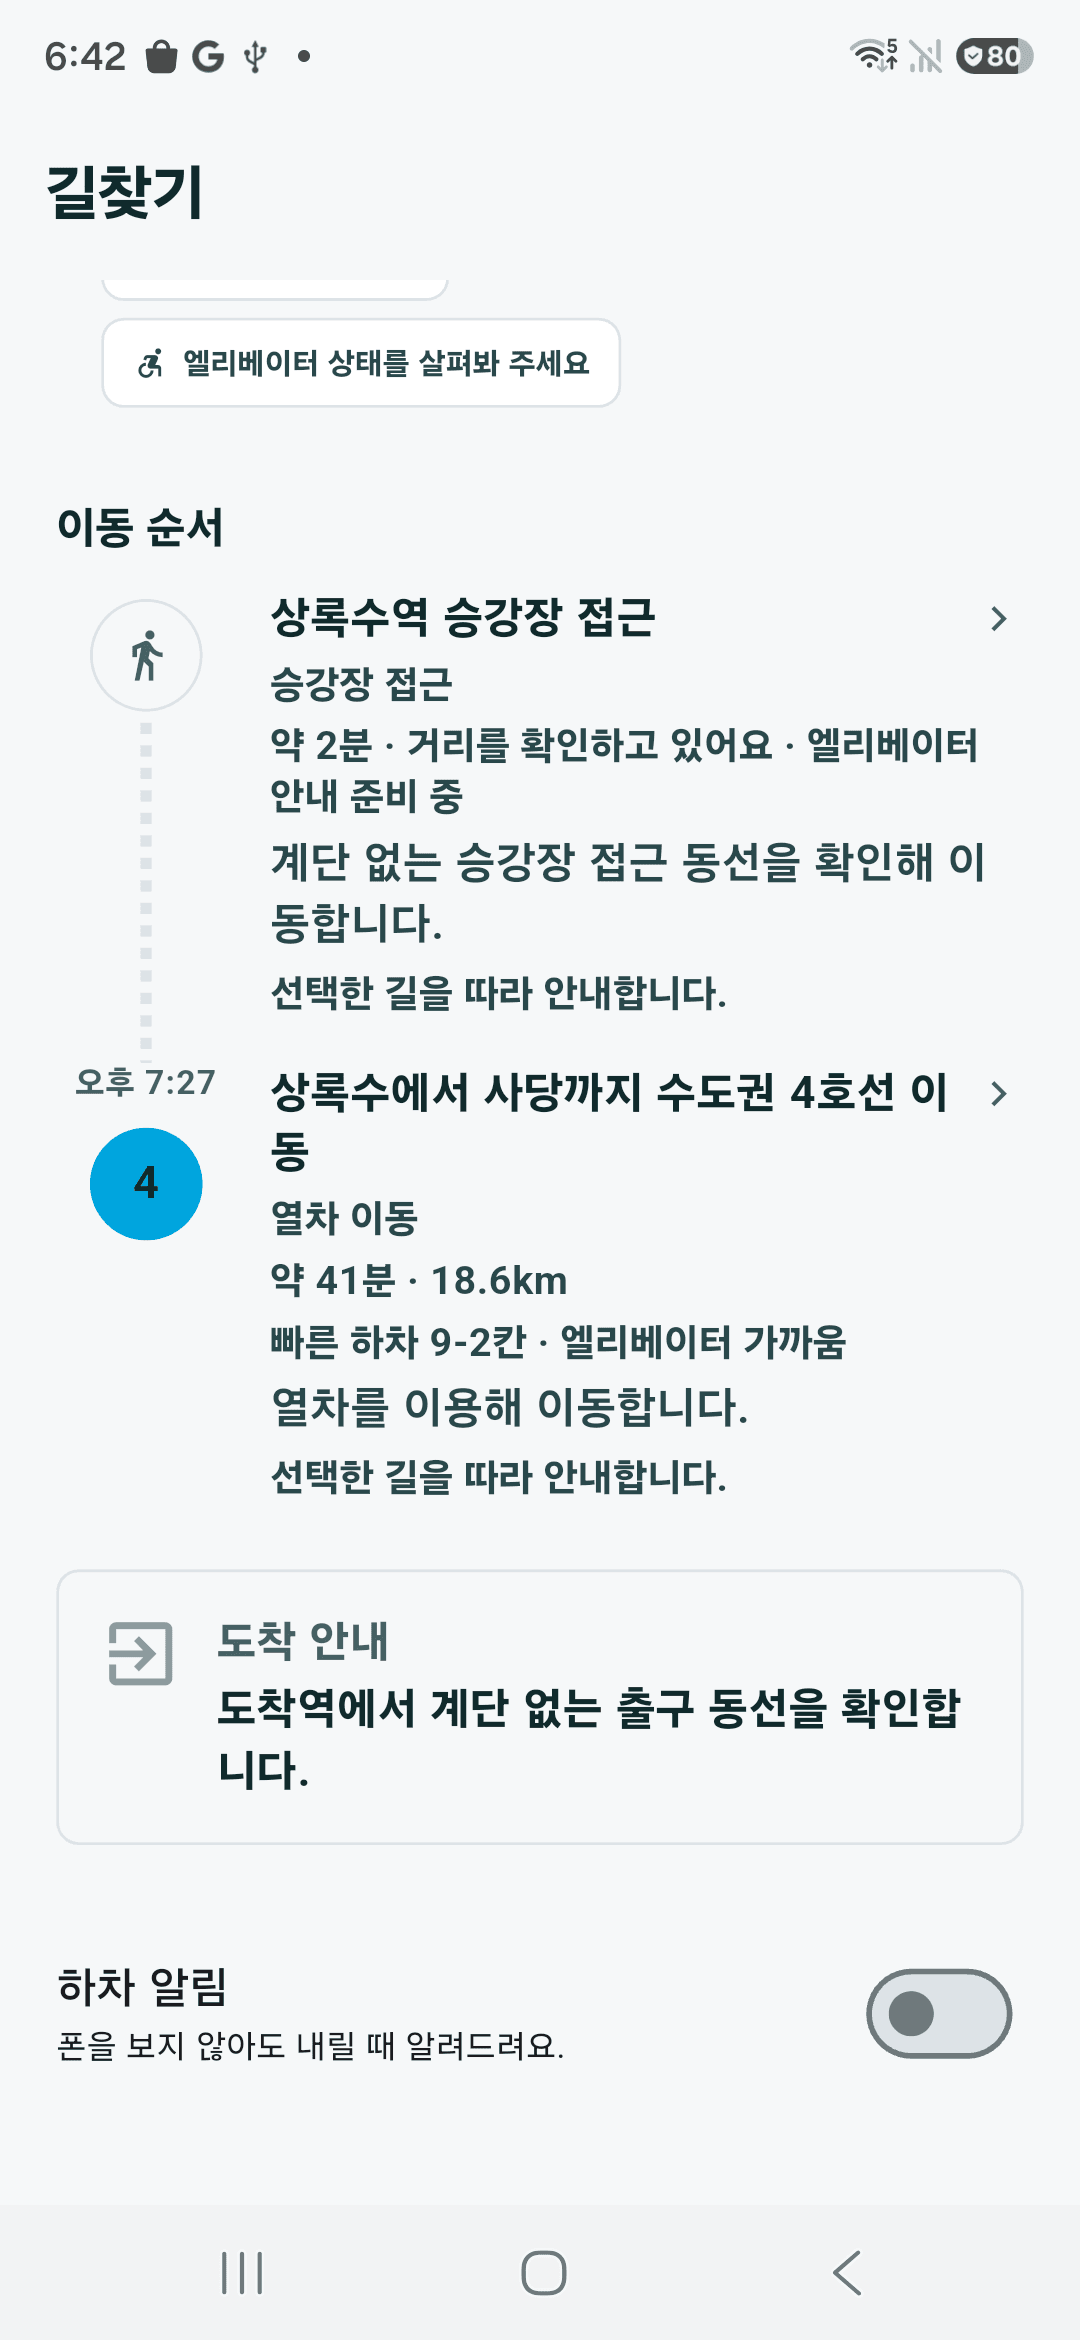
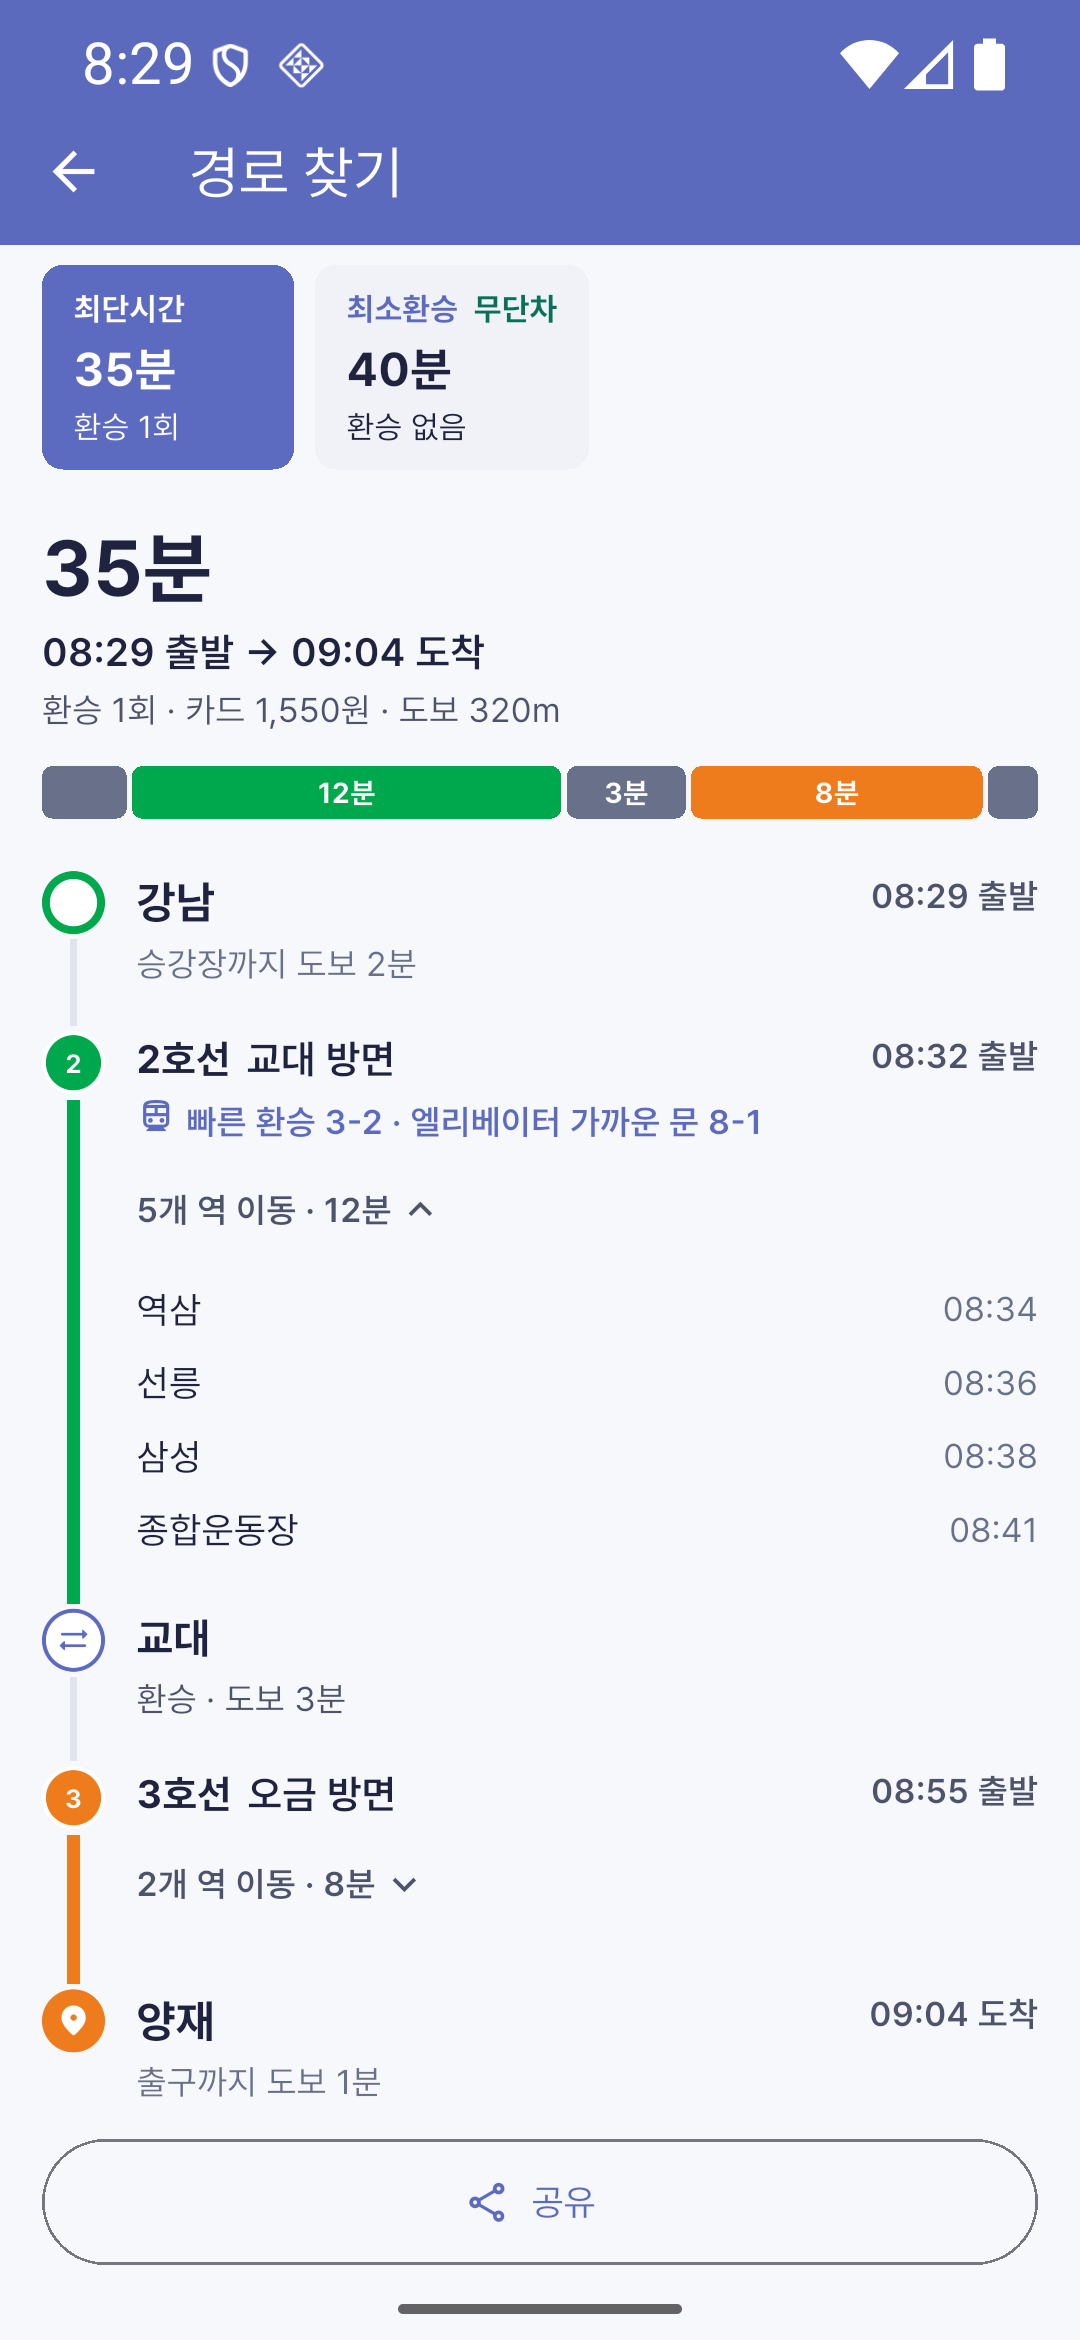
[Fix] Restore dark smartphone bezel and update current project captures (#253)

diff --git a/e2e/smoke-site-surfaces.spec.ts b/e2e/smoke-site-surfaces.spec.ts
@@ -144,6 +144,17 @@ test.describe("공개 표면 스모크: 회사 소개", () => {
     await expect(phone).toBeVisible()
     expect(await measureRenderedAspectRatio(phone)).toBeCloseTo(SCREENSHOT_ASPECT_RATIO, 2)
 
+    const phoneBezel = phone.locator("xpath=ancestor::picture[1]")
+    const companyBezelStyle = await phoneBezel.evaluate((el) => {
+      const style = window.getComputedStyle(el)
+      return {
+        backgroundColor: style.backgroundColor,
+        paddingTop: style.paddingTop,
+      }
+    })
+    expect(companyBezelStyle.backgroundColor).toBe("rgb(22, 25, 45)")
+    expect(Number.parseFloat(companyBezelStyle.paddingTop)).toBeGreaterThan(0)
+
     const blogCapture = page.locator("[data-ui='company-showcase-aquilalog']")
     await expect(blogCapture).toBeVisible()
     expect(await measureRenderedAspectRatio(blogCapture)).toBeCloseTo(BLOG_CAPTURE_ASPECT_RATIO, 2)
@@ -416,12 +427,41 @@ test.describe("공개 표면 스모크: EasySubway 제품", () => {
     })
   }
 
-  test("hero 폰 목업은 원본 비율을 유지하고 확대 컷만 잘린 컷으로 밝힌다", async ({ page }) => {
+  test("hero·타임라인 폰 목업은 다크 스마트폰 베젤과 원본 비율을 유지하고 확대 컷만 잘린 컷으로 밝힌다", async ({
+    page,
+  }) => {
     await page.goto("/easysubway")
-    // 전면 노출은 hero 한 번이며 1080x2340 원본 비율이어야 한다.
-    const heroPhone = page.locator("main figure img").first()
+    // 전면 노출은 hero 한 번이며 1080x2340 원본 비율과 물리적 다크 스마트폰 베젤을 가져야 한다.
+    const heroFrame = page.locator("main figure").first()
+    const heroPhone = heroFrame.locator("img")
     await expect(heroPhone).toBeVisible()
     expect(await measureRenderedAspectRatio(heroPhone)).toBeCloseTo(SCREENSHOT_ASPECT_RATIO, 2)
+
+    const heroBezelStyle = await heroFrame.evaluate((el) => {
+      const style = window.getComputedStyle(el)
+      return {
+        backgroundColor: style.backgroundColor,
+        paddingTop: style.paddingTop,
+      }
+    })
+    expect(heroBezelStyle.backgroundColor).toBe("rgb(22, 25, 45)")
+    expect(Number.parseFloat(heroBezelStyle.paddingTop)).toBeGreaterThan(0)
+
+    const timelineFrame = page.locator("#features figure").last()
+    const timelinePhone = timelineFrame.locator("img")
+    await expect(timelinePhone).toBeVisible()
+    expect(await measureRenderedAspectRatio(timelinePhone)).toBeCloseTo(SCREENSHOT_ASPECT_RATIO, 2)
+
+    const timelineBezelStyle = await timelineFrame.evaluate((el) => {
+      const style = window.getComputedStyle(el)
+      return {
+        backgroundColor: style.backgroundColor,
+        paddingTop: style.paddingTop,
+      }
+    })
+    expect(timelineBezelStyle.backgroundColor).toBe("rgb(22, 25, 45)")
+    expect(Number.parseFloat(timelineBezelStyle.paddingTop)).toBeGreaterThan(0)
+
     // 기능 블록의 확대 컷은 잘린 컷이므로 캡션이 그 사실을 밝혀야 한다.
     await expect(page.locator("#features figcaption")).toContainText("화면 일부")
   })

diff --git a/src/routes/Company/CompanySection.styles.ts b/src/routes/Company/CompanySection.styles.ts
@@ -1,8 +1,7 @@
 import styled from "@emotion/styled"
 import { breakpoint, editorialLabel, fontWeight, layoutBreakpoint, radius } from "src/design-system/tokens"
 import { focusVisibleRing } from "src/design-system/focusRing"
-import { marketingLight as light } from "src/design-system/marketingPalette"
-import { variables } from "src/styles"
+import { marketingDark as dark, marketingLight as light } from "src/design-system/marketingPalette"
 import { MOTION_EASE_OUT, TRANSITION } from "src/routes/Company/CompanyPage.styles"
 
 export {
@@ -143,20 +142,25 @@ export const ProductShowcaseMedia = styled.div<{ $layout?: "phone" | "desktop" }
   padding: ${({ $layout }) => ($layout === "phone" ? "clamp(1.25rem, 2.5vw, 2rem)" : "0")};
   border: 1px solid ${light.border};
   border-radius: ${({ $layout }) => ($layout === "phone" ? `${radius.lg}px` : `${radius.md}px`)};
-  background: ${light.surface};
+  background: ${({ $layout }) => ($layout === "phone" ? light.surfaceScaffold : light.surface)};
   overflow: hidden;
 
   picture {
     display: block;
-    width: ${({ $layout }) => ($layout === "phone" ? "min(100%, 14.5rem)" : "100%")};
+    width: ${({ $layout }) => ($layout === "phone" ? "min(100%, 15.25rem)" : "100%")};
+    padding: ${({ $layout }) => ($layout === "phone" ? "0.5rem" : "0")};
+    border: ${({ $layout }) => ($layout === "phone" ? `1px solid ${dark.borderStrong}` : "none")};
+    border-radius: ${({ $layout }) => ($layout === "phone" ? "1.85rem" : "0")};
+    background: ${({ $layout }) => ($layout === "phone" ? dark.fieldDeep : "transparent")};
+    box-shadow: ${({ $layout }) => ($layout === "phone" ? light.phoneShadow : "none")};
   }
 
   img {
     display: block;
     width: 100%;
     height: auto;
-    border-radius: ${({ $layout }) => ($layout === "phone" ? "1.35rem" : "0")};
-    box-shadow: ${({ $layout }) => ($layout === "phone" ? variables.ui.card.shadowFloating : "none")};
+    border-radius: ${({ $layout }) => ($layout === "phone" ? "1.4rem" : "0")};
+    box-shadow: none;
   }
 `
 

diff --git a/src/routes/EasySubway/EasySubwayFeatures.styles.ts b/src/routes/EasySubway/EasySubwayFeatures.styles.ts
@@ -1,6 +1,6 @@
 import styled from "@emotion/styled"
 import { breakpoint, editorialLabel, fontWeight, layoutBreakpoint, radius } from "src/design-system/tokens"
-import { marketingLight as light } from "src/design-system/marketingPalette"
+import { marketingDark as dark, marketingLight as light } from "src/design-system/marketingPalette"
 
 export const FeatureBlock = styled.div<{ $reverse?: boolean }>`
   display: grid;
@@ -201,21 +201,25 @@ export const TimelinePhoneFrame = styled.figure`
   flex: 0 0 auto;
   width: min(100%, 17.5rem);
   margin: 0 auto;
-  padding: 0.45rem;
-  border: 1px solid ${light.border};
-  border-radius: 1.75rem;
-  background: ${light.surface};
+  padding: 0.5rem;
+  border: 1px solid ${dark.borderStrong};
+  border-radius: 1.85rem;
+  background: ${dark.fieldDeep};
   box-shadow: ${light.phoneShadow};
 
   img {
     display: block;
     width: 100%;
     height: auto;
-    border-radius: 1.35rem;
+    border-radius: 1.4rem;
   }
 
   @media (max-width: ${breakpoint.sm}px) {
     width: min(74%, 15rem);
+  }
+
+  @media (forced-colors: active) {
+    border-color: CanvasText;
   }
 `
 

diff --git a/src/routes/EasySubway/EasySubwayPage.styles.ts b/src/routes/EasySubway/EasySubwayPage.styles.ts
@@ -1,7 +1,7 @@
 import styled from "@emotion/styled"
 import { breakpoint, editorialLabel, fontWeight, layoutBreakpoint, radius } from "src/design-system/tokens"
 import { focusVisibleRing } from "src/design-system/focusRing"
-import { marketingLight as light } from "src/design-system/marketingPalette"
+import { marketingDark as dark, marketingLight as light } from "src/design-system/marketingPalette"
 
 export {
   DetailCrop,
@@ -361,10 +361,10 @@ export const PhoneFrame = styled.figure<{ $width?: string }>`
   position: relative;
   margin: 0;
   width: min(94%, ${({ $width }) => $width || "20.5rem"});
-  padding: 0.5rem;
-  border: 1px solid ${light.border};
+  padding: 0.55rem;
+  border: 1px solid ${dark.borderStrong};
   border-radius: 2rem;
-  background: ${light.surface};
+  background: ${dark.fieldDeep};
   box-shadow: ${light.phoneShadow};
 
   img {

diff --git a/src/routes/Company/CompanyPageModel.ts b/src/routes/Company/CompanyPageModel.ts
@@ -90,7 +90,7 @@ export const COMPANY_NOTICE: CompanyNoticeLink = {
  */
 export const BLOG_CAPTURE = "/company/blog-home.webp"
 export const BLOG_CAPTURE_ALT =
-  "AquilaLog 기술 블로그 홈 화면. 상단 내비게이션과 소개 헤드라인, FOCUS·UPDATED·REPOSITORY 메타 목록, 주제별 글 수 목차가 보인다."
+  "AquilaLog 기술 블로그 홈 화면. 상단 내비게이션과 소개 헤드라인, 주제별 태그 목차, 검색창과 최근 기술 글 목록이 보인다."
 export const BLOG_CAPTURE_SIZE = { width: 1920, height: 733 } as const
 
 /**

diff --git a/src/routes/EasySubway/EasySubwayPageModel.ts b/src/routes/EasySubway/EasySubwayPageModel.ts
@@ -31,7 +31,7 @@ export const PRODUCT_SCREENSHOT_SIZE = {
 
 export const TIMELINE_SCREENSHOT = "/easysubway/timeline-detail.png"
 export const TIMELINE_SCREENSHOT_ALT =
-  "EasySubway 실제 무장애 타임라인 경로 결과 화면. 4호선 빠른 하차 9-2칸 및 엘리베이터 동선 안내."
+  "EasySubway 실제 무장애 타임라인 경로 결과 화면. 강남역에서 양재역까지 빠른 환승 3-2칸 및 엘리베이터 가까운 문 8-1 동선 안내."
 
 export type ProductFeature = {
   id: string
